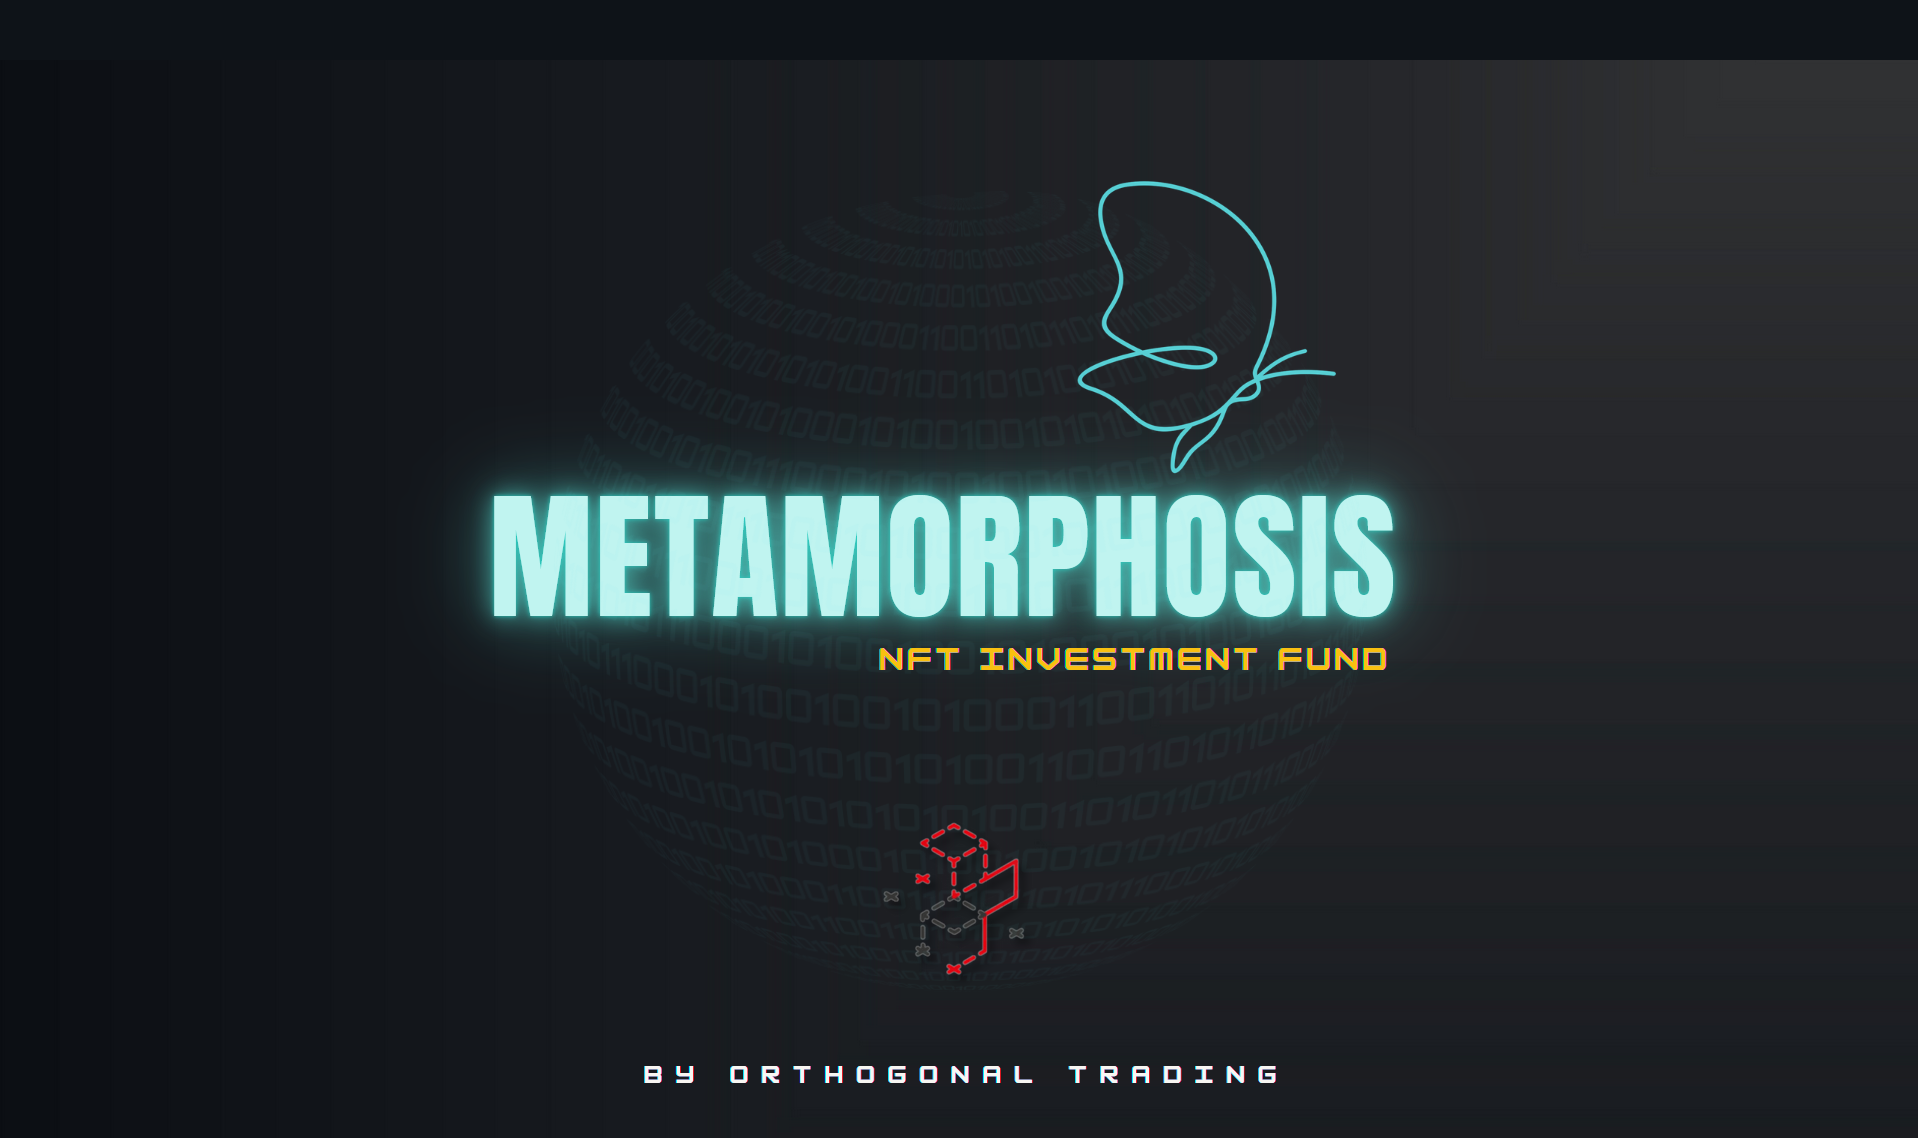
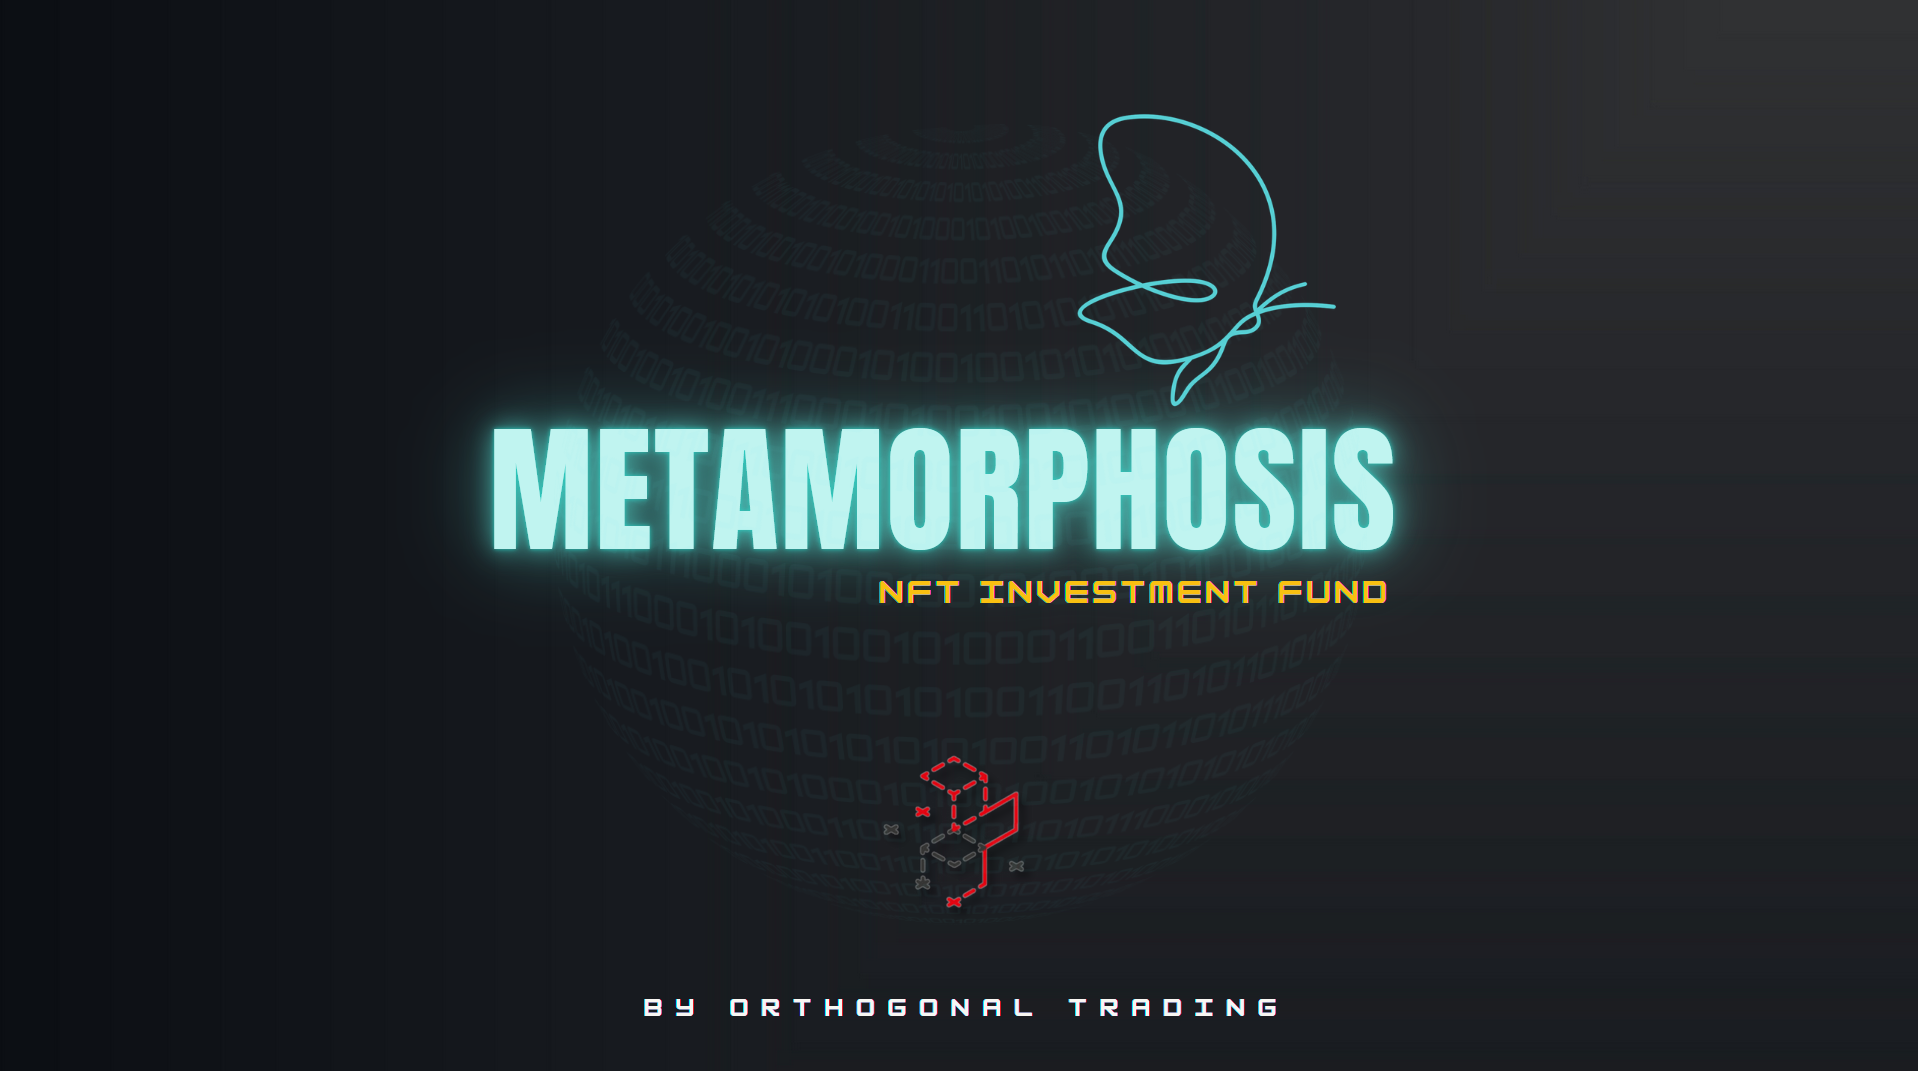
more

diff --git a/build/index.html b/build/index.html
@@ -1,1 +1,1 @@
-<!doctype html><html lang="en"><head><meta charset="utf-8"/><link rel="icon" href="/favicon.ico"/><meta name="viewport" content="width=device-width,initial-scale=1"/><meta name="description" content="metamorphos.is"/><link rel="apple-touch-icon" href="/icon.png"/><link rel="manifest" href="/manifest.json"/><script src="https://unpkg.com/react/umd/react.production.min.js" crossorigin></script><script src="https://unpkg.com/react-dom/umd/react-dom.production.min.js" crossorigin></script><link rel="stylesheet" href="https://cdn.jsdelivr.net/npm/bootstrap@5.1.1/dist/css/bootstrap.min.css" integrity="sha384-F3w7mX95PdgyTmZZMECAngseQB83DfGTowi0iMjiWaeVhAn4FJkqJByhZMI3AhiU" crossorigin="anonymous"/><script src="https://unpkg.com/react-bootstrap@next/dist/react-bootstrap.min.js" crossorigin></script><script>var Alert=ReactBootstrap.Alert</script><title>metamorphos.is</title><link href="/static/css/2.28bb0c3d.chunk.css" rel="stylesheet"><link href="/static/css/main.d113e07f.chunk.css" rel="stylesheet"></head><body><noscript>You need to enable JavaScript to run this app.</noscript><div id="root"></div><script>!function(e){function r(r){for(var n,a,i=r[0],c=r[1],l=r[2],f=0,s=[];f<i.length;f++)a=i[f],Object.prototype.hasOwnProperty.call(o,a)&&o[a]&&s.push(o[a][0]),o[a]=0;for(n in c)Object.prototype.hasOwnProperty.call(c,n)&&(e[n]=c[n]);for(p&&p(r);s.length;)s.shift()();return u.push.apply(u,l||[]),t()}function t(){for(var e,r=0;r<u.length;r++){for(var t=u[r],n=!0,i=1;i<t.length;i++){var c=t[i];0!==o[c]&&(n=!1)}n&&(u.splice(r--,1),e=a(a.s=t[0]))}return e}var n={},o={1:0},u=[];function a(r){if(n[r])return n[r].exports;var t=n[r]={i:r,l:!1,exports:{}};return e[r].call(t.exports,t,t.exports,a),t.l=!0,t.exports}a.e=function(e){var r=[],t=o[e];if(0!==t)if(t)r.push(t[2]);else{var n=new Promise((function(r,n){t=o[e]=[r,n]}));r.push(t[2]=n);var u,i=document.createElement("script");i.charset="utf-8",i.timeout=120,a.nc&&i.setAttribute("nonce",a.nc),i.src=function(e){return a.p+"static/js/"+({}[e]||e)+"."+{3:"885129a3"}[e]+".chunk.js"}(e);var c=new Error;u=function(r){i.onerror=i.onload=null,clearTimeout(l);var t=o[e];if(0!==t){if(t){var n=r&&("load"===r.type?"missing":r.type),u=r&&r.target&&r.target.src;c.message="Loading chunk "+e+" failed.\n("+n+": "+u+")",c.name="ChunkLoadError",c.type=n,c.request=u,t[1](c)}o[e]=void 0}};var l=setTimeout((function(){u({type:"timeout",target:i})}),12e4);i.onerror=i.onload=u,document.head.appendChild(i)}return Promise.all(r)},a.m=e,a.c=n,a.d=function(e,r,t){a.o(e,r)||Object.defineProperty(e,r,{enumerable:!0,get:t})},a.r=function(e){"undefined"!=typeof Symbol&&Symbol.toStringTag&&Object.defineProperty(e,Symbol.toStringTag,{value:"Module"}),Object.defineProperty(e,"__esModule",{value:!0})},a.t=function(e,r){if(1&r&&(e=a(e)),8&r)return e;if(4&r&&"object"==typeof e&&e&&e.__esModule)return e;var t=Object.create(null);if(a.r(t),Object.defineProperty(t,"default",{enumerable:!0,value:e}),2&r&&"string"!=typeof e)for(var n in e)a.d(t,n,function(r){return e[r]}.bind(null,n));return t},a.n=function(e){var r=e&&e.__esModule?function(){return e.default}:function(){return e};return a.d(r,"a",r),r},a.o=function(e,r){return Object.prototype.hasOwnProperty.call(e,r)},a.p="/",a.oe=function(e){throw console.error(e),e};var i=this.webpackJsonpapp=this.webpackJsonpapp||[],c=i.push.bind(i);i.push=r,i=i.slice();for(var l=0;l<i.length;l++)r(i[l]);var p=c;t()}([])</script><script src="/static/js/2.ecb1e1af.chunk.js"></script><script src="/static/js/main.ed1cf40b.chunk.js"></script></body></html>
+<!doctype html><html lang="en"><head><meta charset="utf-8"/><link rel="icon" href="/favicon.ico"/><meta name="viewport" content="width=device-width,initial-scale=1"/><meta name="description" content="metamorphos.is"/><link rel="apple-touch-icon" href="/icon.png"/><link rel="manifest" href="/manifest.json"/><script src="https://unpkg.com/react/umd/react.production.min.js" crossorigin></script><script src="https://unpkg.com/react-dom/umd/react-dom.production.min.js" crossorigin></script><link rel="stylesheet" href="https://cdn.jsdelivr.net/npm/bootstrap@5.1.1/dist/css/bootstrap.min.css" integrity="sha384-F3w7mX95PdgyTmZZMECAngseQB83DfGTowi0iMjiWaeVhAn4FJkqJByhZMI3AhiU" crossorigin="anonymous"/><script src="https://unpkg.com/react-bootstrap@next/dist/react-bootstrap.min.js" crossorigin></script><script>var Alert=ReactBootstrap.Alert</script><title>metamorphos.is</title><link href="/static/css/2.28bb0c3d.chunk.css" rel="stylesheet"><link href="/static/css/main.5df33c40.chunk.css" rel="stylesheet"></head><body><noscript>You need to enable JavaScript to run this app.</noscript><div id="root"></div><script>!function(e){function r(r){for(var n,a,i=r[0],c=r[1],l=r[2],f=0,s=[];f<i.length;f++)a=i[f],Object.prototype.hasOwnProperty.call(o,a)&&o[a]&&s.push(o[a][0]),o[a]=0;for(n in c)Object.prototype.hasOwnProperty.call(c,n)&&(e[n]=c[n]);for(p&&p(r);s.length;)s.shift()();return u.push.apply(u,l||[]),t()}function t(){for(var e,r=0;r<u.length;r++){for(var t=u[r],n=!0,i=1;i<t.length;i++){var c=t[i];0!==o[c]&&(n=!1)}n&&(u.splice(r--,1),e=a(a.s=t[0]))}return e}var n={},o={1:0},u=[];function a(r){if(n[r])return n[r].exports;var t=n[r]={i:r,l:!1,exports:{}};return e[r].call(t.exports,t,t.exports,a),t.l=!0,t.exports}a.e=function(e){var r=[],t=o[e];if(0!==t)if(t)r.push(t[2]);else{var n=new Promise((function(r,n){t=o[e]=[r,n]}));r.push(t[2]=n);var u,i=document.createElement("script");i.charset="utf-8",i.timeout=120,a.nc&&i.setAttribute("nonce",a.nc),i.src=function(e){return a.p+"static/js/"+({}[e]||e)+"."+{3:"885129a3"}[e]+".chunk.js"}(e);var c=new Error;u=function(r){i.onerror=i.onload=null,clearTimeout(l);var t=o[e];if(0!==t){if(t){var n=r&&("load"===r.type?"missing":r.type),u=r&&r.target&&r.target.src;c.message="Loading chunk "+e+" failed.\n("+n+": "+u+")",c.name="ChunkLoadError",c.type=n,c.request=u,t[1](c)}o[e]=void 0}};var l=setTimeout((function(){u({type:"timeout",target:i})}),12e4);i.onerror=i.onload=u,document.head.appendChild(i)}return Promise.all(r)},a.m=e,a.c=n,a.d=function(e,r,t){a.o(e,r)||Object.defineProperty(e,r,{enumerable:!0,get:t})},a.r=function(e){"undefined"!=typeof Symbol&&Symbol.toStringTag&&Object.defineProperty(e,Symbol.toStringTag,{value:"Module"}),Object.defineProperty(e,"__esModule",{value:!0})},a.t=function(e,r){if(1&r&&(e=a(e)),8&r)return e;if(4&r&&"object"==typeof e&&e&&e.__esModule)return e;var t=Object.create(null);if(a.r(t),Object.defineProperty(t,"default",{enumerable:!0,value:e}),2&r&&"string"!=typeof e)for(var n in e)a.d(t,n,function(r){return e[r]}.bind(null,n));return t},a.n=function(e){var r=e&&e.__esModule?function(){return e.default}:function(){return e};return a.d(r,"a",r),r},a.o=function(e,r){return Object.prototype.hasOwnProperty.call(e,r)},a.p="/",a.oe=function(e){throw console.error(e),e};var i=this.webpackJsonpapp=this.webpackJsonpapp||[],c=i.push.bind(i);i.push=r,i=i.slice();for(var l=0;l<i.length;l++)r(i[l]);var p=c;t()}([])</script><script src="/static/js/2.ecb1e1af.chunk.js"></script><script src="/static/js/main.ed1cf40b.chunk.js"></script></body></html>

diff --git a/build/static/css/main.5df33c40.chunk.css b/build/static/css/main.5df33c40.chunk.css
@@ -1,0 +1,2 @@
+body{margin:0;background:#000;font-family:-apple-system,BlinkMacSystemFont,"Segoe UI","Roboto","Oxygen","Ubuntu","Cantarell","Fira Sans","Droid Sans","Helvetica Neue",sans-serif;-webkit-font-smoothing:antialiased;-moz-osx-font-smoothing:grayscale}code{font-family:source-code-pro,Menlo,Monaco,Consolas,"Courier New",monospace}.App{text-align:center;background-color:#000}.App-logo{height:40vmin;pointer-events:none}@media (prefers-reduced-motion:no-preference){.App-logo{animation:App-logo-spin 20s linear infinite}}#root{background:#000}.container-fluid{align-items:center;margin:0;padding:0}img{width:100%;height:100%}.container2{background:#000;background-image:url(/static/media/b2.bc5360ff.jpg);background-repeat:no-repeat;background-attachment:fixed;background-position:50%}.container2,.container3{min-width:200vh;min-height:100vh}.container3{background:#000;background-image:url(/static/media/b3.7b881fbc.jpg);background-repeat:no-repeat;background-attachment:fixed;background-position:50%}.App-header{min-height:100vh;display:flex;flex-direction:column;align-items:center;justify-content:center;font-size:calc(10px + 2vmin);color:#000}.App-link{color:#61dafb}background-image{width:100vh,height 100vh}@keyframes App-logo-spin{0%{transform:rotate(0deg)}to{transform:rotate(1turn)}}
+/*# sourceMappingURL=main.5df33c40.chunk.css.map */

diff --git a/src/App.css b/src/App.css
@@ -30,13 +30,15 @@
 
 
   align-items: center;
+  margin: 0;
+  padding: 0;
 
 
   
 }
 img {
 
-  margin-bottom: 120px;
+
  width: 100%;
 
  height: 100%;
@@ -71,7 +73,7 @@ img {
 
 
 .App-header {
-  background-color: #161617;
+  
   min-height: 100vh;
   display: flex;
   flex-direction: column;
